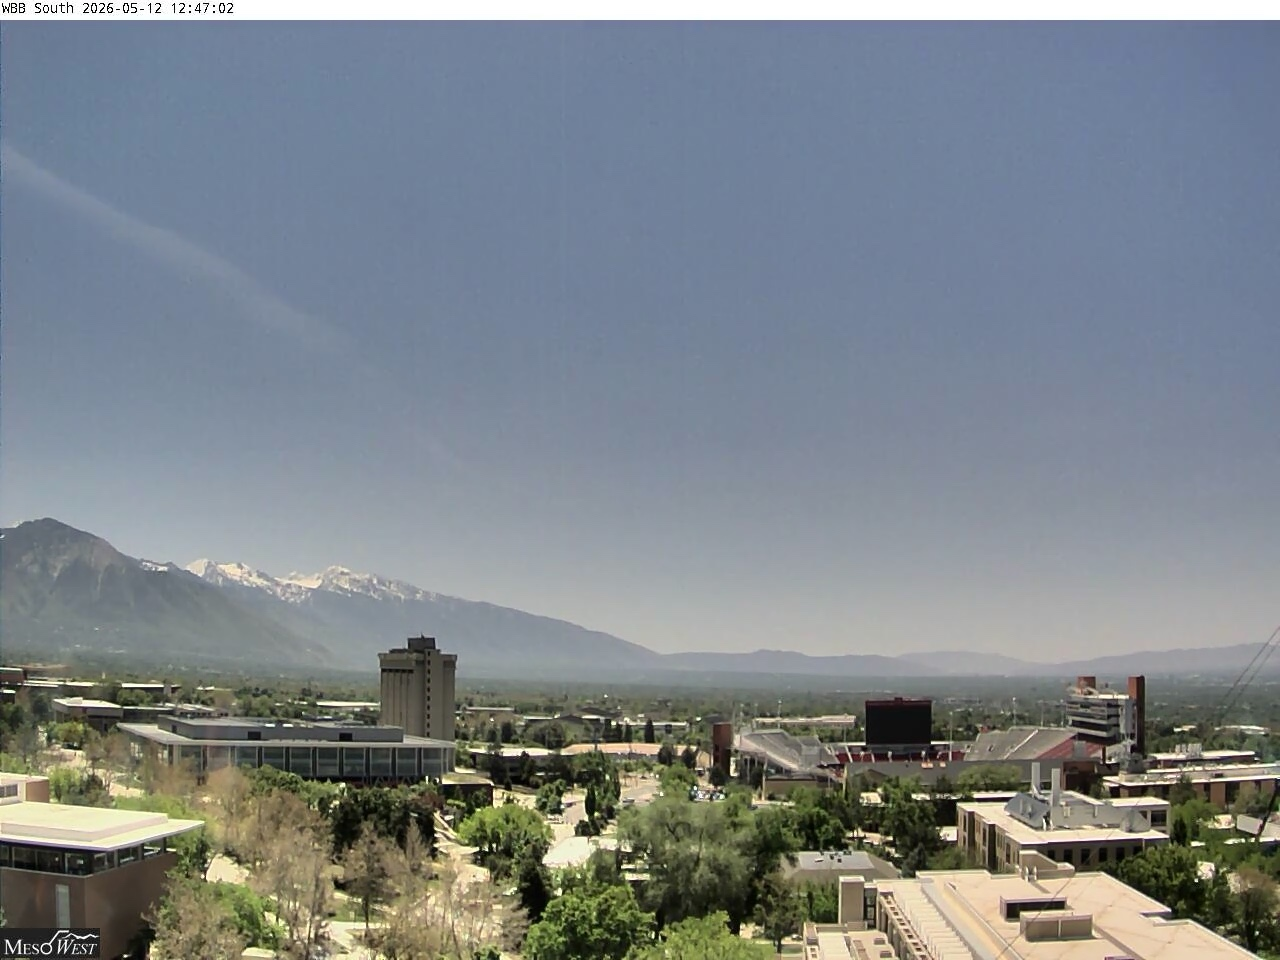
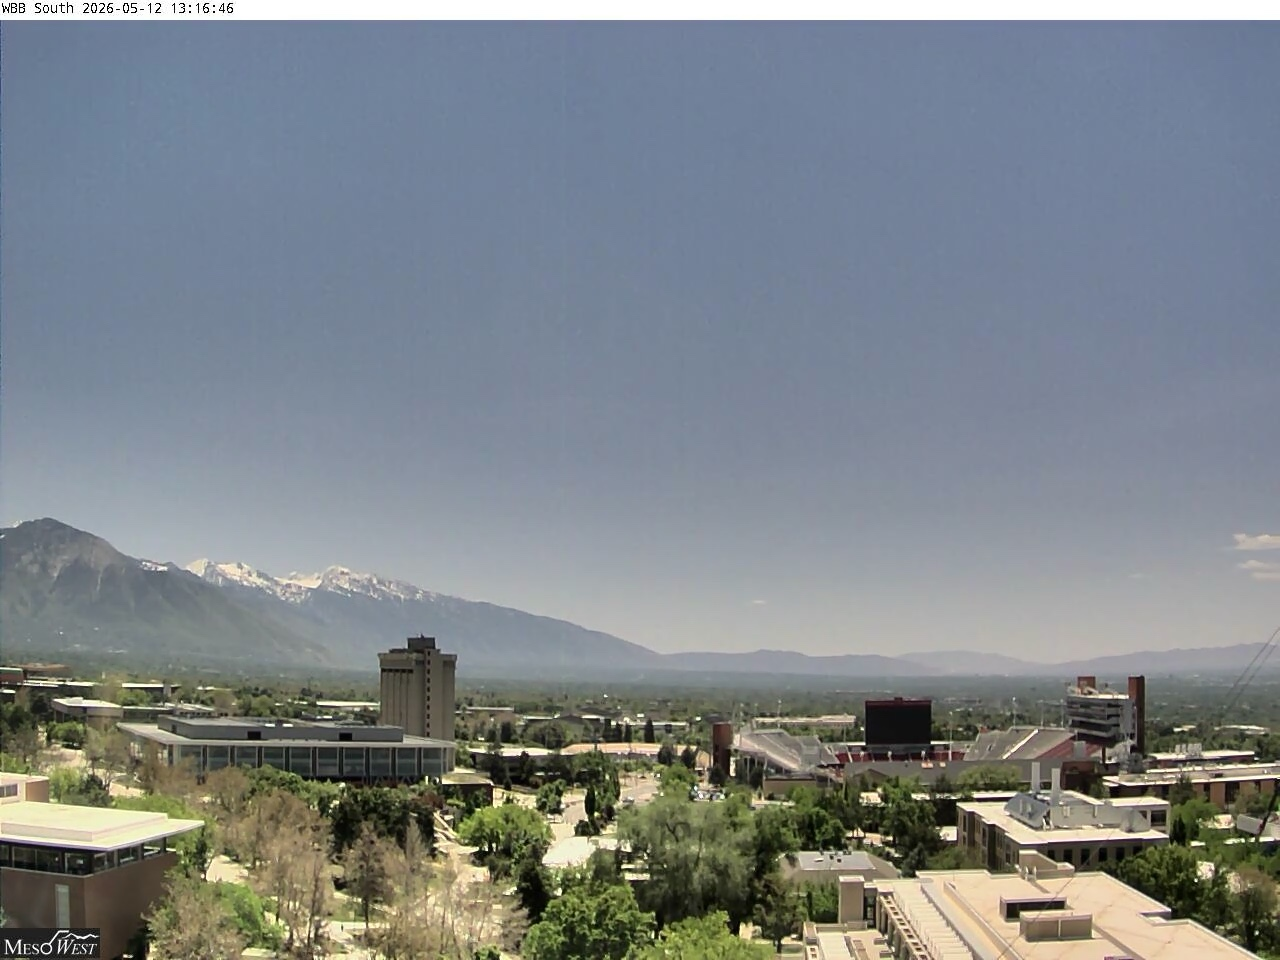
Update configuration and documentation
- Changed default CANVAS_ANCHOR in config.sh from "center" to "bottom" for improved image alignment.
- Enhanced README.md with additional context about the webcam imagery source.
- Updated cache files to reflect recent changes in image processing.

diff --git a/README.md b/README.md
@@ -2,6 +2,8 @@
 
 Pulls a webcam frame on an interval (JPEG endpoint or the last frame of an MP4/MOV), fits it onto the virtual desktop arrangement, slices out each monitor's region, and sets it as the macOS wallpaper across a multi-monitor setup. Runs as a `launchd` user agent.
 
+Imagery courtesy of the [Horel Research Group](https://horel.chpc.utah.edu/) (MesoWest / University of Utah Department of Atmospheric Sciences, CHPC) — the WBB rooftop camera atop the William Browning Building, looking south over the Salt Lake Valley toward the Wasatch and Oquirrh ranges. Current frame: <https://horel.chpc.utah.edu/data/station_cameras/wbbs_cam/wbbs_cam_current.jpg>.
+
 ## Stack
 
 A single compiled Swift binary (`bin/skybg`) does everything image-and-display: